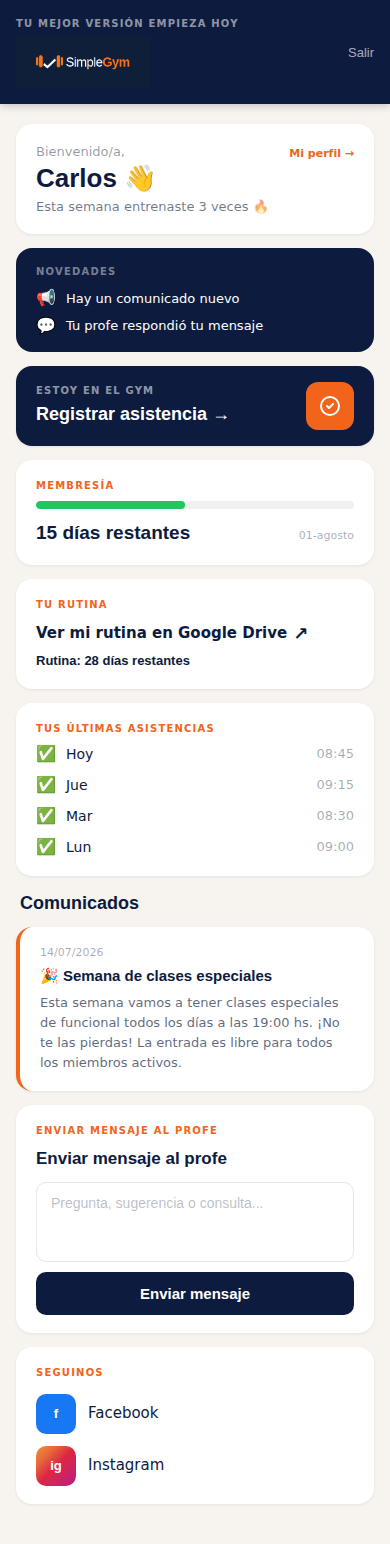
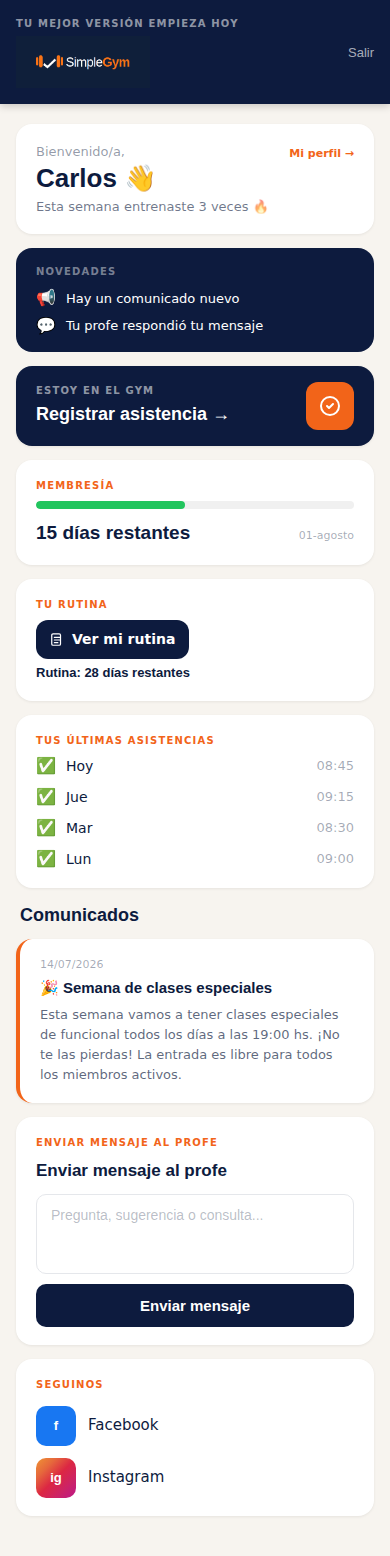
feat: upload PDF de rutinas a Supabase Storage
- Migration 021: bucket 'rutinas' público en Supabase Storage
- Server Action subirRutinaPdf: upload vía admin client (service role), upsert por alumno
- EditarForm: botón "Subir PDF" + fallback link externo; retrocompatible con Drive URLs existentes
- App alumno: "Ver mi rutina" con ícono de documento (elimina referencia a Google Drive)
- Mockup y screenshot actualizados: rutina card con botón nativo
- StudentAppSection: ORIG_H y coordenadas ajustadas al nuevo screenshot (1556px)

Claude-Session: https://claude.ai/code/session_01RccGnVdBUkSWP9SvSTvSF3

diff --git a/src/app/admin/(panel)/alumnos/[id]/EditarForm.tsx b/src/app/admin/(panel)/alumnos/[id]/EditarForm.tsx
@@ -1,7 +1,7 @@
 'use client'
 
-import { useActionState } from 'react'
-import { actualizarAlumno } from './actions'
+import { useActionState, useState } from 'react'
+import { actualizarAlumno, subirRutinaPdf } from './actions'
 
 type Props = {
   alumnoId: string
@@ -17,29 +17,96 @@ export default function EditarForm({
   rutina_fecha_vencimiento,
 }: Props) {
   const boundAction = actualizarAlumno.bind(null, alumnoId)
-  const [state, formAction, pending] = useActionState(boundAction, {
-    error: null,
-    ok: false,
-  })
+  const [state, formAction, pending] = useActionState(boundAction, { error: null, ok: false })
+
+  const [rutinaUrl, setRutinaUrl] = useState(rutina_url ?? '')
+  const [uploading, setUploading] = useState(false)
+  const [uploadError, setUploadError] = useState<string | null>(null)
+  const [uploadOk, setUploadOk] = useState(false)
+
+  async function handlePdfUpload(e: React.ChangeEvent<HTMLInputElement>) {
+    const file = e.target.files?.[0]
+    if (!file) return
+    if (file.size > 10 * 1024 * 1024) {
+      setUploadError('El archivo no puede superar los 10 MB')
+      return
+    }
+    setUploading(true)
+    setUploadError(null)
+    setUploadOk(false)
+    const fd = new FormData()
+    fd.append('pdf', file)
+    const { error, url } = await subirRutinaPdf(alumnoId, fd)
+    setUploading(false)
+    if (error) {
+      setUploadError(error)
+    } else if (url) {
+      setRutinaUrl(url)
+      setUploadOk(true)
+    }
+  }
+
+  const isDriveLink = rutinaUrl.includes('drive.google')
 
   return (
     <form action={formAction} className="space-y-5">
-      <div className="border-b border-gray-100 pb-5 space-y-5">
+      {/* Hidden input que lleva la URL al Server Action */}
+      <input type="hidden" name="rutina_url" value={rutinaUrl} readOnly />
+
+      <div className="border-b border-gray-100 pb-5 space-y-4">
         <p className="text-xs font-semibold font-body text-navy/40 uppercase tracking-widest">
           Rutina
         </p>
+
+        {/* Upload PDF */}
         <div>
-          <label className="block text-sm font-medium text-navy/80 mb-1.5 font-body">
-            Link de Google Drive
+          <label className="block text-sm font-medium text-navy/80 mb-2 font-body">
+            PDF de rutina
+          </label>
+          <label className={`inline-flex items-center gap-2 cursor-pointer px-4 py-2.5 border rounded-xl text-sm font-semibold font-body transition-colors ${uploading ? 'border-gray-200 text-navy/40' : 'border-orange text-orange hover:bg-orange/5'}`}>
+            <svg viewBox="0 0 16 16" fill="none" className="w-4 h-4 shrink-0">
+              <path d="M8 10V2M5 5L8 2l3 3" stroke="currentColor" strokeWidth="1.5" strokeLinecap="round" strokeLinejoin="round"/>
+              <path d="M2 11v1a2 2 0 002 2h8a2 2 0 002-2v-1" stroke="currentColor" strokeWidth="1.5" strokeLinecap="round"/>
+            </svg>
+            {uploading ? 'Subiendo…' : rutinaUrl ? 'Reemplazar PDF' : 'Subir PDF de rutina'}
+            <input
+              type="file"
+              accept="application/pdf"
+              onChange={handlePdfUpload}
+              className="sr-only"
+              disabled={uploading}
+            />
+          </label>
+
+          {rutinaUrl && !uploadOk && (
+            <p className="mt-1.5 text-xs text-navy/40 font-body">
+              {isDriveLink ? '🔗 Link de Google Drive activo' : '📄 PDF subido'}
+            </p>
+          )}
+          {uploadOk && (
+            <p className="mt-1.5 text-xs text-green-600 font-body">
+              PDF subido. Guardá los cambios para aplicarlo.
+            </p>
+          )}
+          {uploadError && (
+            <p className="mt-1.5 text-xs text-red-500 font-body">{uploadError}</p>
+          )}
+        </div>
+
+        {/* Link externo (fallback / retrocompatibilidad) */}
+        <div>
+          <label className="block text-xs font-medium text-navy/40 mb-1.5 font-body uppercase tracking-widest">
+            O pegar un link externo
           </label>
           <input
-            name="rutina_url"
             type="url"
-            defaultValue={rutina_url ?? ''}
-            placeholder="https://drive.google.com/..."
-            className="w-full px-4 py-3 rounded-xl border border-gray-200 focus:outline-none focus:ring-2 focus:ring-orange/40 focus:border-orange text-navy font-body placeholder:text-gray-300 transition-colors"
+            value={rutinaUrl}
+            onChange={(e) => { setRutinaUrl(e.target.value); setUploadOk(false) }}
+            placeholder="https://drive.google.com/…"
+            className="w-full px-4 py-3 rounded-xl border border-gray-200 focus:outline-none focus:ring-2 focus:ring-orange/40 focus:border-orange text-navy font-body placeholder:text-gray-300 transition-colors text-sm"
           />
         </div>
+
         <div>
           <label className="block text-sm font-medium text-navy/80 mb-1.5 font-body">
             Vencimiento de la rutina
@@ -75,7 +142,6 @@ export default function EditarForm({
           {state.error}
         </p>
       )}
-
       {state.ok && (
         <p className="text-green-600 text-sm font-body bg-green-50 px-3 py-2 rounded-lg">
           Guardado correctamente.
@@ -84,10 +150,10 @@ export default function EditarForm({
 
       <button
         type="submit"
-        disabled={pending}
+        disabled={pending || uploading}
         className="w-full py-3 bg-orange text-white font-semibold rounded-xl hover:bg-orange/90 active:scale-[0.98] transition-all disabled:opacity-60 font-body"
       >
-        {pending ? 'Guardando...' : 'Guardar cambios'}
+        {pending ? 'Guardando…' : 'Guardar cambios'}
       </button>
     </form>
   )

diff --git a/src/app/admin/(panel)/alumnos/[id]/actions.ts b/src/app/admin/(panel)/alumnos/[id]/actions.ts
@@ -65,3 +65,28 @@ export async function actualizarAlumno(
   revalidatePath(`/admin/alumnos/${alumnoId}`)
   return { error: null, ok: true }
 }
+
+export async function subirRutinaPdf(
+  alumnoId: string,
+  formData: FormData
+): Promise<{ error: string | null; url: string | null }> {
+  const { gimnasioId } = await getAdminSession()
+  const file = formData.get('pdf') as File | null
+
+  if (!file || file.size === 0) return { error: 'No se seleccionó archivo', url: null }
+  if (file.type !== 'application/pdf') return { error: 'Solo se permiten archivos PDF', url: null }
+  if (file.size > 10 * 1024 * 1024) return { error: 'El archivo no puede superar los 10 MB', url: null }
+
+  const adminSupabase = createAdminClient()
+  const path = `${gimnasioId}/${alumnoId}.pdf`
+  const arrayBuffer = await file.arrayBuffer()
+
+  const { error } = await adminSupabase.storage
+    .from('rutinas')
+    .upload(path, arrayBuffer, { upsert: true, contentType: 'application/pdf' })
+
+  if (error) return { error: error.message, url: null }
+
+  const { data: { publicUrl } } = adminSupabase.storage.from('rutinas').getPublicUrl(path)
+  return { error: null, url: publicUrl }
+}

diff --git a/src/app/landing/StudentAppSection.tsx b/src/app/landing/StudentAppSection.tsx
@@ -4,7 +4,7 @@ import { useCallback, useEffect, useRef, useState } from 'react'
 
 // --- Medidas base (tomadas del mockup a 390px de ancho) ---
 const ORIG_W = 390
-const ORIG_H = 1544
+const ORIG_H = 1556
 const PHONE_W = 290        // ancho del viewport del celular en la landing
 const VIEWPORT_H = 540     // altura visible del celular (ventana)
 const SCALE = PHONE_W / ORIG_W
@@ -18,10 +18,10 @@ const EL = {
   welcome:   { top: s(124),  h: s(110), left: s(16),  w: s(358) },
   checkin:   { top: s(366),  h: s(80),  left: s(16),  w: s(358) },
   membresia: { top: s(460),  h: s(105), left: s(16),  w: s(358) },
-  rutina:    { top: s(579),  h: s(110), left: s(16),  w: s(358) },
-  comunicado:{ top: s(927),  h: s(164), left: s(16),  w: s(358) },
-  mensajes:  { top: s(1105), h: s(228), left: s(16),  w: s(358) },
-  seguinos:  { top: s(1349), h: s(160), left: s(16),  w: s(358) },
+  rutina:    { top: s(579),  h: s(122), left: s(16),  w: s(358) },
+  comunicado:{ top: s(939),  h: s(164), left: s(16),  w: s(358) },
+  mensajes:  { top: s(1117), h: s(228), left: s(16),  w: s(358) },
+  seguinos:  { top: s(1361), h: s(160), left: s(16),  w: s(358) },
 }
 
 type Highlight = typeof EL.header

diff --git a/src/app/dashboard/page.tsx b/src/app/dashboard/page.tsx
@@ -289,10 +289,13 @@ export default async function DashboardPage() {
               href={alumno.rutina_url}
               target="_blank"
               rel="noopener noreferrer"
-              className="inline-flex items-center gap-2 text-navy font-semibold font-body hover:text-orange transition-colors"
+              className="inline-flex items-center gap-2 bg-navy text-white font-semibold font-body px-4 py-2.5 rounded-xl hover:bg-navy/90 transition-colors text-sm"
             >
-              <span>Ver mi rutina en Google Drive</span>
-              <span className="text-lg">↗</span>
+              <svg viewBox="0 0 16 16" fill="none" className="w-4 h-4 shrink-0">
+                <rect x="2" y="1" width="10" height="13" rx="1.5" stroke="currentColor" strokeWidth="1.4"/>
+                <path d="M5 5h6M5 8h6M5 11h4" stroke="currentColor" strokeWidth="1.4" strokeLinecap="round"/>
+              </svg>
+              <span>Ver mi rutina</span>
             </a>
           ) : (
             <p className="text-navy/40 font-body text-sm">Tu profe todavía no cargó tu rutina.</p>